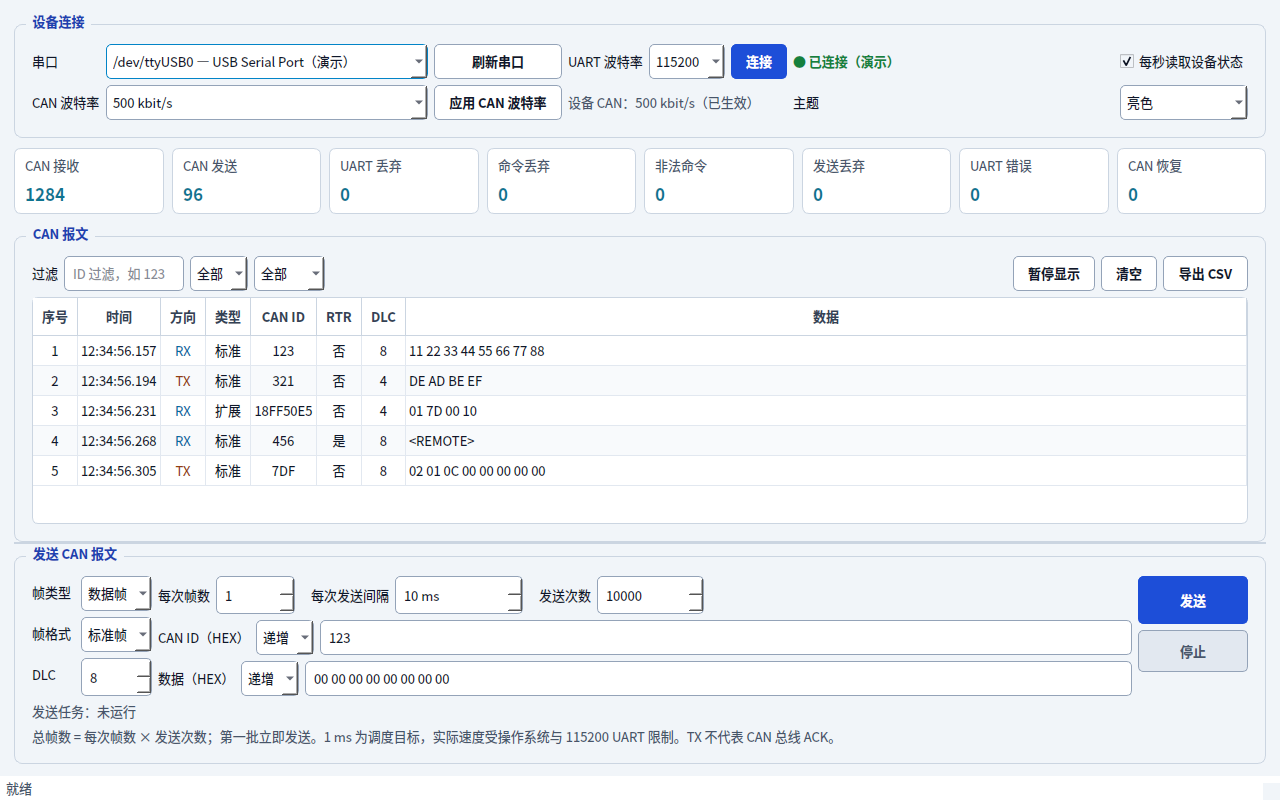
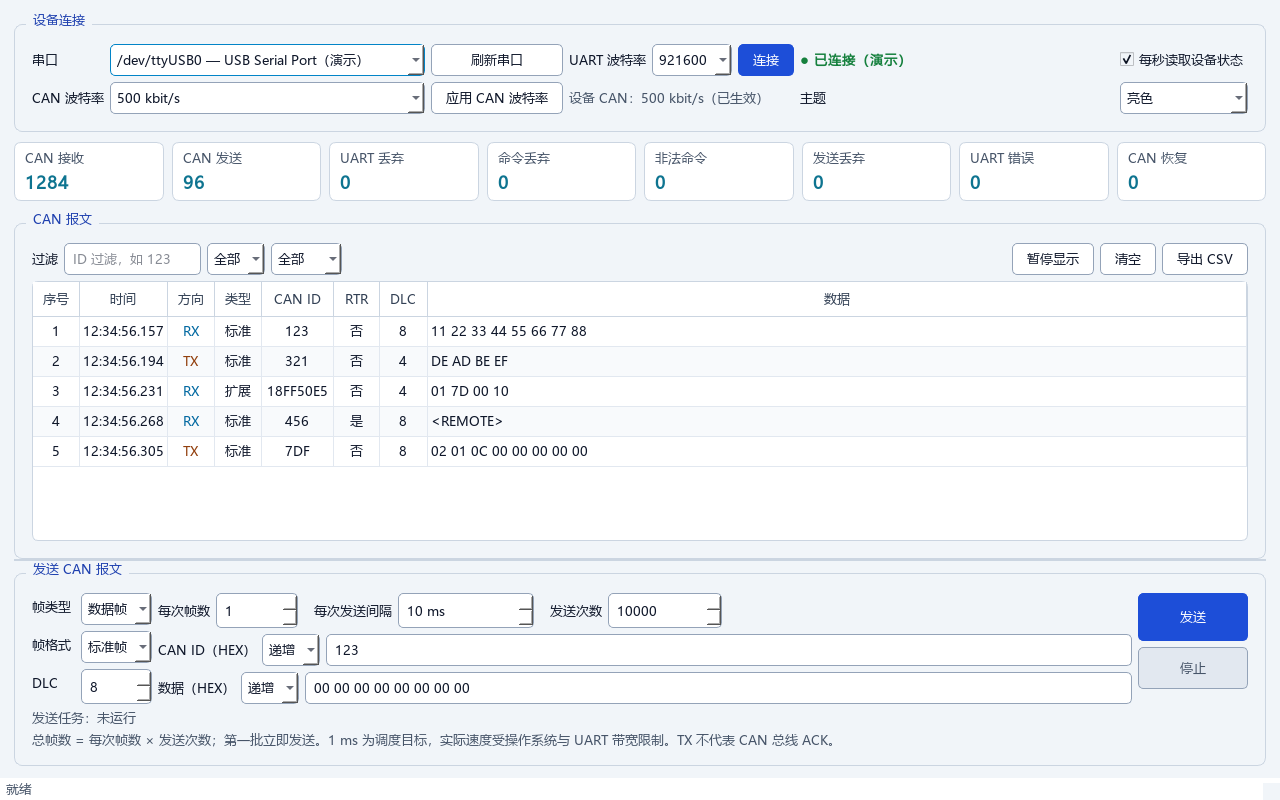
Refresh cross-platform documentation and screenshots

diff --git a/host_app/tools/capture_screenshot.py b/host_app/tools/capture_screenshot.py
@@ -27,6 +27,7 @@ from canbridge.protocol import CanFrame  # noqa: E402
 def main() -> int:
     parser = argparse.ArgumentParser(description=__doc__)
     parser.add_argument("--theme", choices=("light", "dark"), default="dark")
+    parser.add_argument("--port-kind", choices=("auto", "windows", "linux"), default="auto")
     parser.add_argument("--output", type=Path, default=PROJECT_ROOT / "docs/images/host-app.png")
     args = parser.parse_args()
     app = QApplication.instance() or QApplication([])
@@ -38,18 +39,20 @@ def main() -> int:
         controller = configure_application(app, settings)
         controller.set_mode(args.theme)
         window = MainWindow(settings=settings)
-        return capture(app, window, args.output)
+        return capture(app, window, args.output, args.port_kind)
 
 
-def capture(app: QApplication, window: MainWindow, output: Path) -> int:
+def capture(app: QApplication, window: MainWindow, output: Path, port_kind: str = "auto") -> int:
 
     window.port_combo.clear()
-    port = "/dev/ttyUSB0" if sys.platform.startswith("linux") else "COM7"
+    use_linux_port = port_kind == "linux" or (port_kind == "auto" and sys.platform.startswith("linux"))
+    port = "/dev/ttyUSB0" if use_linux_port else "COM7"
     window.port_combo.addItem(f"{port} — USB Serial Port（演示）", port)
     window.connection_label.setText("● 已连接（演示）")
     window.connection_label.setObjectName("connected")
     window.connection_label.style().unpolish(window.connection_label)
     window.connection_label.style().polish(window.connection_label)
+    window.baud_combo.setCurrentText("921600")
     window.can_bitrate_combo.setCurrentIndex(window.can_bitrate_combo.findData(500_000))
     window.can_bitrate_label.setText("设备 CAN：500 kbit/s（已生效）")
     window.can_bitrate_button.setEnabled(True)

diff --git a/Core/Src/stm32f1xx_it.c b/Core/Src/stm32f1xx_it.c
@@ -234,7 +234,7 @@ void USART1_IRQHandler(void)
 {
   /* USER CODE BEGIN USART1_IRQn 0 */
   /* The old code toggled PC13 here, which amounts to ~11.5 kHz of pointless
-     GPIO work inside the RX interrupt at 115200 baud.  PC13 is now reserved
+     GPIO work inside the RX interrupt at high UART rates.  PC13 is now reserved
      for real status: Error_Handler() drives it low on a fatal fault. */
 
   /* USER CODE END USART1_IRQn 0 */

diff --git a/THIRD_PARTY_NOTICES.md b/THIRD_PARTY_NOTICES.md
@@ -33,16 +33,16 @@ The compiled firmware combines original project code with the components above. 
 
 ## Windows and Linux host application dependencies
 
-The source application depends on packages installed from Python package indexes. The current `v0.1.0-beta` Windows build was produced with:
+The source application depends on packages installed from Python package indexes. The current `v0.1.0-beta` Windows and Linux builds use:
 
 | Component | Version | License declared by the installed package |
 |---|---:|---|
-| Python | 3.14.6 | Python Software Foundation License |
+| Python | 3.12 (GitHub Actions builds) | Python Software Foundation License |
 | PySide6 / Shiboken6 | 6.11.2 | LGPL-3.0-only OR GPL-2.0-only OR GPL-3.0-only |
 | pyserial | 3.5 | BSD |
 | PyInstaller | 6.22.2 | GPL-2.0-or-later with the PyInstaller bootloader exception |
 
-New Windows and Linux builds install `PySide6-Essentials` instead of the full `PySide6` meta-package. It supplies all Qt modules used by this Widgets application; see [Qt's Essentials package inventory](https://github.com/qtproject/pyside-pyside-setup/blob/dev/README.pyside6_essentials.md). The `PySide6` import namespace and licensing remain the same. Exact package versions are pinned in `host_app/requirements-release.txt`; the Linux package records its build architecture, glibc and Python version in `BUILD-INFO.txt`.
+New Windows and Linux builds install `PySide6-Essentials` instead of the full `PySide6` meta-package. It supplies all Qt modules used by this Widgets application; see [Qt's Essentials package inventory](https://github.com/qtproject/pyside-pyside-setup/blob/dev/README.pyside6_essentials.md). The `PySide6` import namespace and licensing remain the same. Exact package versions are pinned in `host_app/requirements-release.txt`; GitHub Actions currently selects Python 3.12, and the Linux package records its build architecture, glibc and Python version in `BUILD-INFO.txt`. A local rebuild may use another supported Python version and must retain that runtime's license.
 
 The prebuilt application uses the LGPL-3.0 option for the dynamically loaded PySide6/Qt libraries. PySide6 wheels bundle Qt libraries. Qt for Python documents its Community Edition as LGPLv3/GPLv3 and commercial-license software; see <https://doc.qt.io/qtforpython-6/> and its license index at <https://doc.qt.io/qtforpython-6/licenses.html>. Corresponding Qt/PySide6 source releases are available from <https://download.qt.io/official_releases/QtForPython/>. Redistributors must comply with the license of every Qt module they actually bundle and preserve the user's ability to replace the dynamically loaded libraries.
 

diff --git a/docs/RELEASE_NOTES_v0.1.0-beta.md b/docs/RELEASE_NOTES_v0.1.0-beta.md
@@ -1,6 +1,6 @@
 # UART-CAN Bridge v0.1.0-beta
 
-第一个公开测试版：把 STM32F103C6T6、USB-UART 和 CAN 收发器组合成一个带 Windows 图形上位机的简易 CAN 调试工具。
+第一个公开测试版：把 STM32F103C6T6、USB-UART 和 CAN 收发器组合成一个带 Windows / Linux 图形上位机的简易 CAN 调试工具。
 
 > “赵工把 CAN 盒拿走了，那我用什么？”
 >
@@ -9,8 +9,9 @@
 ## 本版内容
 
 - 经典 CAN 标准帧、扩展帧、数据帧和远程帧双向转换
-- 上电默认 500 kbit/s CAN，可在上位机中切换 9 个常用波特率；UART 为 115200 8N1
-- Windows 上位机实时显示、过滤、任务式批量/周期发送和 CSV 导出
+- 上电默认 500 kbit/s CAN，可在上位机中切换 9 个常用波特率；UART 为 921600 8N1
+- Windows / Linux 上位机实时显示、过滤、任务式批量/周期发送和 CSV 导出
+- 亮色、暗色和跟随系统主题，可在运行中切换并保存偏好
 - 发送任务支持停止、CAN ID 递增以及大端数据计数器递增
 - 设备状态计数器、UART 错误恢复和 CAN bus-off 恢复
 - PC13 非阻塞 CAN 收发活动指示
@@ -20,6 +21,8 @@
 ## 下载
 
 - `UART-CAN-Host-0.1.0-beta-windows-x64.exe`：Windows x64 上位机
+- `UART-CAN-Host-0.1.0-beta-linux-x64.tar.gz`：Linux x64 上位机压缩包
+- `UART-CAN-Host-0.1.0-beta-linux-x64.tar.gz.sha256`：Linux 压缩包校验文件
 - `c6t6-0.1.0-beta.hex`：推荐固件文件
 - `c6t6-0.1.0-beta.bin`：从 `0x08000000` 烧录
 - `SHA256SUMS.txt`：全部发布文件的 SHA-256
@@ -33,14 +36,15 @@
 - CAN 波特率修改只在本次运行中生效，设备复位后恢复为 500 kbit/s
 - 不支持 CAN FD
 - 上位机 `TX` 只表示命令进入本机串口发送队列，不代表单片机已收到或总线已经 ACK
-- 115200 UART 无法无损承载高负载 CAN 总线的全部峰值流量
+- 921600 UART 在文本编码下仍无法保证无损承载高负载 CAN 总线的全部峰值流量
 - Windows EXE 尚未代码签名，下载后请核对 SHA-256
+- Linux 二进制需要图形桌面及发行版提供的 Qt/XCB 运行库；串口用户需有设备访问权限
 
 ## 当前实测环境
 
 - MCU：STM32F103C6T6，8 MHz 外部晶振
 - CAN 收发器：SN65HVD230
-- USB-UART：PowerWriter 串口设备，115200 8N1
+- USB-UART：PowerWriter 串口设备，921600 8N1
 - 下载器：CMSIS-DAP
 - 已实测：250 kbit/s 下标准数据帧收发，以及 CAN ID/数据递增发送任务
 - 待验收：其他波特率、扩展帧、远程帧、30 分钟连续运行和 bus-off 恢复

diff --git a/README.md b/README.md
@@ -8,7 +8,7 @@
 >
 > “太好了，是f103，我们有救了！”
 
-![UART-CAN 上位机](docs/images/host-app.png)
+![UART-CAN 上位机暗色主题，UART 921600、CAN 500 kbit/s](docs/images/host-app.png)
 
 > [!IMPORTANT]
 > 当前仓库处于 **v0.1.0-beta** 阶段。软件构建与自动测试已经通过，基本收发已在作者的 STM32F103C6T6 + SN65HVD230 实物上验证；发布前仍需完成全波特率、长时间和故障恢复验收。本项目仅用于学习和实验室调试，不适用于安全关键控制；使用者需自行评估连接、数据与操作风险。
@@ -69,9 +69,11 @@ MCU 与 CAN 收发器的典型连接：
 正式发布后，在 [Releases 页面](../../releases/latest)下载：
 
 - `UART-CAN-Host-<version>-windows-x64.exe`：Windows 上位机
+- `UART-CAN-Host-<version>-linux-x64.tar.gz`：Linux x64 上位机压缩包
+- `UART-CAN-Host-<version>-linux-x64.tar.gz.sha256`：Linux 压缩包校验文件
 - `c6t6-<version>.hex`：推荐烧录文件
 - `c6t6-<version>.bin`：从 `0x08000000` 烧录
-- `SHA256SUMS.txt`：文件完整性校验
+- `SHA256SUMS.txt`：Windows 上位机、固件和许可证文件的完整性校验
 - `LICENSE.txt`、`THIRD_PARTY_NOTICES.md` 和厂商许可证：随二进制保留的授权材料
 
 当前还没有 GitHub Release 时，也可以从源码运行上位机：
@@ -130,16 +132,16 @@ t12381122334455667788\r
 
 ## 构建与测试
 
-### GCC 固件构建（推荐用于可复现构建）
+### 跨平台 CMake 固件构建
 
-安装 CMake、Ninja 和 `arm-none-eabi-gcc`，并确保工具位于 `PATH`：
+Linux / CI 推荐安装 CMake、Ninja 和 `arm-none-eabi-gcc`，并确保工具位于 `PATH`：
 
-```powershell
+```bash
 cmake --preset gcc-Release
 cmake --build --preset gcc-Release
 ```
 
-输出位于 `build/gcc-Release/`。ATfE/Clang、EIDE、Keil MDK-ARM 和独立验证脚本的配置见 [固件开发说明](README_Converter.md)。
+Windows 使用 `CMakeUserPresets.json` 保存本机 ATfE、GNU Arm 和 Ninja 路径；VS Code 中只显示“开发调试 (Debug)”和“正式发布 (Release)”两项，输出分别位于 `build/Debug/` 和 `build/Release/`。本机预设模板见[故障排查](docs/TROUBLESHOOTING.md#cmake-找不到工具链)。Linux GCC 输出位于 `build/gcc-Release/`。ATfE/Clang、EIDE、Keil MDK-ARM 和独立验证脚本的详细配置见[固件开发说明](README_Converter.md)。
 
 ### 测试
 

diff --git a/docs/RELEASE_CHECKLIST.md b/docs/RELEASE_CHECKLIST.md
@@ -14,10 +14,10 @@
 
 ## 自动检查
 
-- [x] `tools/run-host-tests.ps1` 全部通过（58 项检查）
-- [x] `host_app` Python 测试全部通过（24 项）
+- [x] `tools/run-host-tests.ps1` 的 3 个固件逻辑测试程序全部通过
+- [x] `host_app` Python 测试全部通过（31 项）
 - [x] 上位机源码 smoke test 通过
-- [x] Release 固件构建通过：Flash 镜像 11,728 B，RAM 区使用 2,952 B
+- [x] Linux GCC Release 固件构建通过：Flash 使用 13,236 B，RAM 区使用 2,952 B
 - [x] 打包版 EXE smoke test 通过
 
 ## 硬件验收
@@ -33,14 +33,15 @@
 
 1. 更新 `CHANGELOG.md` 的版本和日期。
 2. 提交所有有意修改，并确保 CI 通过。
-3. 运行：
+3. 在 Windows 运行：
 
    ```powershell
    .\tools\package-release.ps1 -Version v0.1.0-beta
    ```
 
-4. 检查 `release/v0.1.0-beta/` 中的 EXE、HEX、BIN、许可证材料和 `SHA256SUMS.txt`；如发布 Qt/PySide6 二进制，按所选 LGPL/GPL/商业授权方式完成合规复核。
-5. 创建 annotated tag：`git tag -a v0.1.0-beta -m "UART-CAN Bridge v0.1.0-beta"`。
-6. 推送分支和 tag，在 GitHub 创建 prerelease，并上传 `release/v0.1.0-beta/` 中的全部文件。
-7. 复核并粘贴 `docs/RELEASE_NOTES_v0.1.0-beta.md`，其中应包含实测硬件、可选 CAN 波特率、未签名 EXE 提示和已知限制。
-8. 发布后，在一台没有开发环境的 Windows 电脑上按 README 从 Release 下载并完整走一遍快速开始。
+4. 在 Ubuntu 22.04 x64 运行 `bash host_app/build_linux.sh`，或从成功的 GitHub Actions 下载 `UART-CAN-Host-linux-x64` artifact；取得 `.tar.gz` 和同名 `.sha256` 文件。
+5. 检查 `release/v0.1.0-beta/` 中的 EXE、HEX、BIN、许可证材料和 `SHA256SUMS.txt`，并把 Linux `.tar.gz` 与 `.sha256` 一起列入 Release；如发布 Qt/PySide6 二进制，按所选 LGPL/GPL/商业授权方式完成合规复核。
+6. 创建 annotated tag：`git tag -a v0.1.0-beta -m "UART-CAN Bridge v0.1.0-beta"`。
+7. 推送分支和 tag，在 GitHub 创建 prerelease，并上传上述 Windows、Linux、固件和许可证文件。
+8. 复核并粘贴 `docs/RELEASE_NOTES_v0.1.0-beta.md`，其中应包含实测硬件、可选 CAN 波特率、未签名 EXE、Linux 运行库提示和已知限制。
+9. 发布后，分别在没有开发环境的 Windows 和 Linux 电脑上从 Release 下载并完整走一遍快速开始。

diff --git a/README_Converter.md b/README_Converter.md
@@ -81,7 +81,9 @@ terminated with `\r`.
 
 ### CMake
 
-Two toolchains are supported and both are wired into `CMakePresets.json`:
+Two toolchains are supported. The shared presets are available on Linux and in
+CI; Windows keeps machine-specific paths in the ignored `CMakeUserPresets.json`
+so they are never committed:
 
 ```sh
 cmake --preset Release        # ATfE clang (-Os), GNU ld, newlib-nano
@@ -96,6 +98,13 @@ cmake --build --preset gcc-Release
 
 Each build produces `c6t6.elf`, `c6t6.map`, `c6t6.hex` and `c6t6.bin` in
 `build/<preset>/`. Flash the `.hex`, or the `.bin` at `0x08000000`.
+
+On Windows, create the two local presets documented in
+[`docs/TROUBLESHOOTING.md`](docs/TROUBLESHOOTING.md#cmake-找不到工具链). VS Code
+then presents only **开发调试 (Debug)** and **正式发布 (Release)**. They build to
+`build/Debug/` and `build/Release/`, matching the checked-in clangd and
+IntelliSense compilation-database paths. Use `local-Debug` for ordinary work
+and `local-Release` for an optimized image.
 
 Toolchain locations are discovered from `PATH`, a CMake cache variable, or an
 environment variable. No developer-specific path is built into the project:
@@ -138,14 +147,23 @@ python -m venv .venv
 
 Build the single-file Windows application with `host_app/build_exe.ps1`.
 
+### Linux host application
+
+The same PySide6 application runs on Linux with `/dev/ttyUSB*` and
+`/dev/ttyACM*` devices. Build the executable and `linux-x64`/`linux-arm64`
+tarball with `bash host_app/build_linux.sh`. Runtime libraries, serial-port
+permissions and package compatibility are documented in
+[`host_app/README.md`](host_app/README.md).
+
 ### Measured footprint
 
 | Build | text | data | bss | flash | RAM |
 |---|---|---|---|---|---|
-| gcc-Release (`-Os`) | 11628 | 100 | 2860 | 11728 B (36%) | ~2.9 KB (29%) |
+| gcc-Release (`-Os`) | 13136 | 100 | 2860 | 13236 B (40.39%) | 2952 B (28.83%) |
 
-This row is from the current source. ATfE/EIDE and MDK use different runtime
-libraries, so their exact sizes should be read from their own build reports.
+This row is from the Linux GCC build in CI for commit `fb02d00`. ATfE/EIDE and
+MDK use different runtime libraries, so their exact sizes should be read from
+their own build reports.
 
 ## Tests
 

diff --git a/host_app/README.md b/host_app/README.md
@@ -2,7 +2,7 @@
 
 适用于本仓库 STM32F103 UART-CAN 固件的 Windows / Linux 桌面工具。
 
-![上位机界面](../docs/images/host-app.png)
+![上位机暗色主题与 Windows COM 串口，UART 921600、CAN 500 kbit/s](../docs/images/host-app.png)
 
 第一次接线和烧录请从仓库根目录的[五分钟快速开始](../docs/QUICK_START.md)开始。
 
@@ -64,7 +64,14 @@ sudo usermod -aG dialout "$USER"
 
 系统外观由 [Qt QStyleHints](https://doc.qt.io/qt-6/qstylehints.html#colorScheme-prop) 提供。Linux GNOME / KDE 桌面需正常提供主题设置（GNOME 通常通过 `xdg-desktop-portal` 及对应桌面后端）。没有可用的系统偏好时使用亮色，仍可手动切换。
 
-![亮色主题](../docs/images/host-app-light.png)
+![上位机亮色主题与 Linux ttyUSB 串口，UART 921600、CAN 500 kbit/s](../docs/images/host-app-light.png)
+
+更新界面后可从仓库根目录重生成两张文档截图：
+
+```powershell
+.\host_app\.venv\Scripts\python.exe host_app\tools\capture_screenshot.py --theme dark --port-kind windows --output docs\images\host-app.png
+.\host_app\.venv\Scripts\python.exe host_app\tools\capture_screenshot.py --theme light --port-kind linux --output docs\images\host-app-light.png
+```
 
 ## 构建 Windows EXE
 

diff --git a/docs/QUICK_START.md b/docs/QUICK_START.md
@@ -55,7 +55,7 @@ USB-UART 只负责串口通信。本项目的 STM32F103 固件不是 USB CDC 设
 
 ## 4. 打开上位机
 
-1. Windows 从 Release 下载并运行 `UART-CAN-Host-<version>-windows-x64.exe`；Linux 按[上位机说明](../host_app/README.md#构建与运行-linux-版本)构建或下载 Actions 的 Linux 压缩包，解压后运行 `./UART-CAN-Host`。
+1. Windows 从 Release 下载并运行 `UART-CAN-Host-<version>-windows-x64.exe`；Linux 下载 `UART-CAN-Host-<version>-linux-x64.tar.gz`，校验同名 `.sha256` 后解压运行 `./UART-CAN-Host`，也可按[上位机说明](../host_app/README.md#构建与运行-linux-版本)从源码构建。
 2. Windows 首次运行未签名 EXE 时可能显示 SmartScreen 提示；先用 `SHA256SUMS.txt` 校验文件来自本仓库 Release。
 3. 点击“刷新串口”，选择 USB-UART 对应的 COM 口或 `/dev/ttyUSB*`、`/dev/ttyACM*` 设备。
 4. 保持 `921600` 波特率，点击“连接”。

diff --git a/docs/TROUBLESHOOTING.md b/docs/TROUBLESHOOTING.md
@@ -69,17 +69,17 @@
 
 ## CMake 找不到工具链
 
-GCC 构建要求 `arm-none-eabi-gcc` 位于 `PATH`，或显式指定前缀：
+Linux / CI 的 GCC 构建要求 `arm-none-eabi-gcc` 位于 `PATH`，或显式指定前缀：
 
-```powershell
-cmake -DTOOLCHAIN_PREFIX=C:/toolchains/gcc-arm-none-eabi/bin/arm-none-eabi- --preset gcc-Release
+```bash
+cmake -DTOOLCHAIN_PREFIX=/opt/gcc-arm-none-eabi/bin/arm-none-eabi- --preset gcc-Release
 ```
 
-ATfE/Clang 构建不包含任何开发者本机路径。请通过 CMake 参数或环境变量指定：
+Linux 的 ATfE/Clang 构建不包含任何开发者本机路径。请通过 CMake 参数或环境变量指定：
 
-```powershell
-cmake -DSTARM_TOOLCHAIN_PATH=C:/toolchains/ATfE/bin `
-      -DGNU_TOOLCHAIN_ROOT=C:/toolchains/GNU-tools-for-STM32 `
+```bash
+cmake -DSTARM_TOOLCHAIN_PATH=/opt/ATfE/bin \
+      -DGNU_TOOLCHAIN_ROOT=/opt/gcc-arm-none-eabi \
       --preset Release
 ```
 

diff --git a/CHANGELOG.md b/CHANGELOG.md
@@ -13,6 +13,8 @@
 ### Changed
 
 - USART1 固件波特率与上位机默认波特率提高至 `921600 8N1`，同步 CubeMX 配置与使用文档
+- Windows CMake Tools 只显示本机可用的调试与发布预设，Linux / CI 继续使用共享 GCC/Clang 预设
+- 重新生成亮色与暗色上位机截图，并同步跨平台构建、发布说明和问题模板
 
 ## [0.1.0-beta] - 2026-09-14
 
